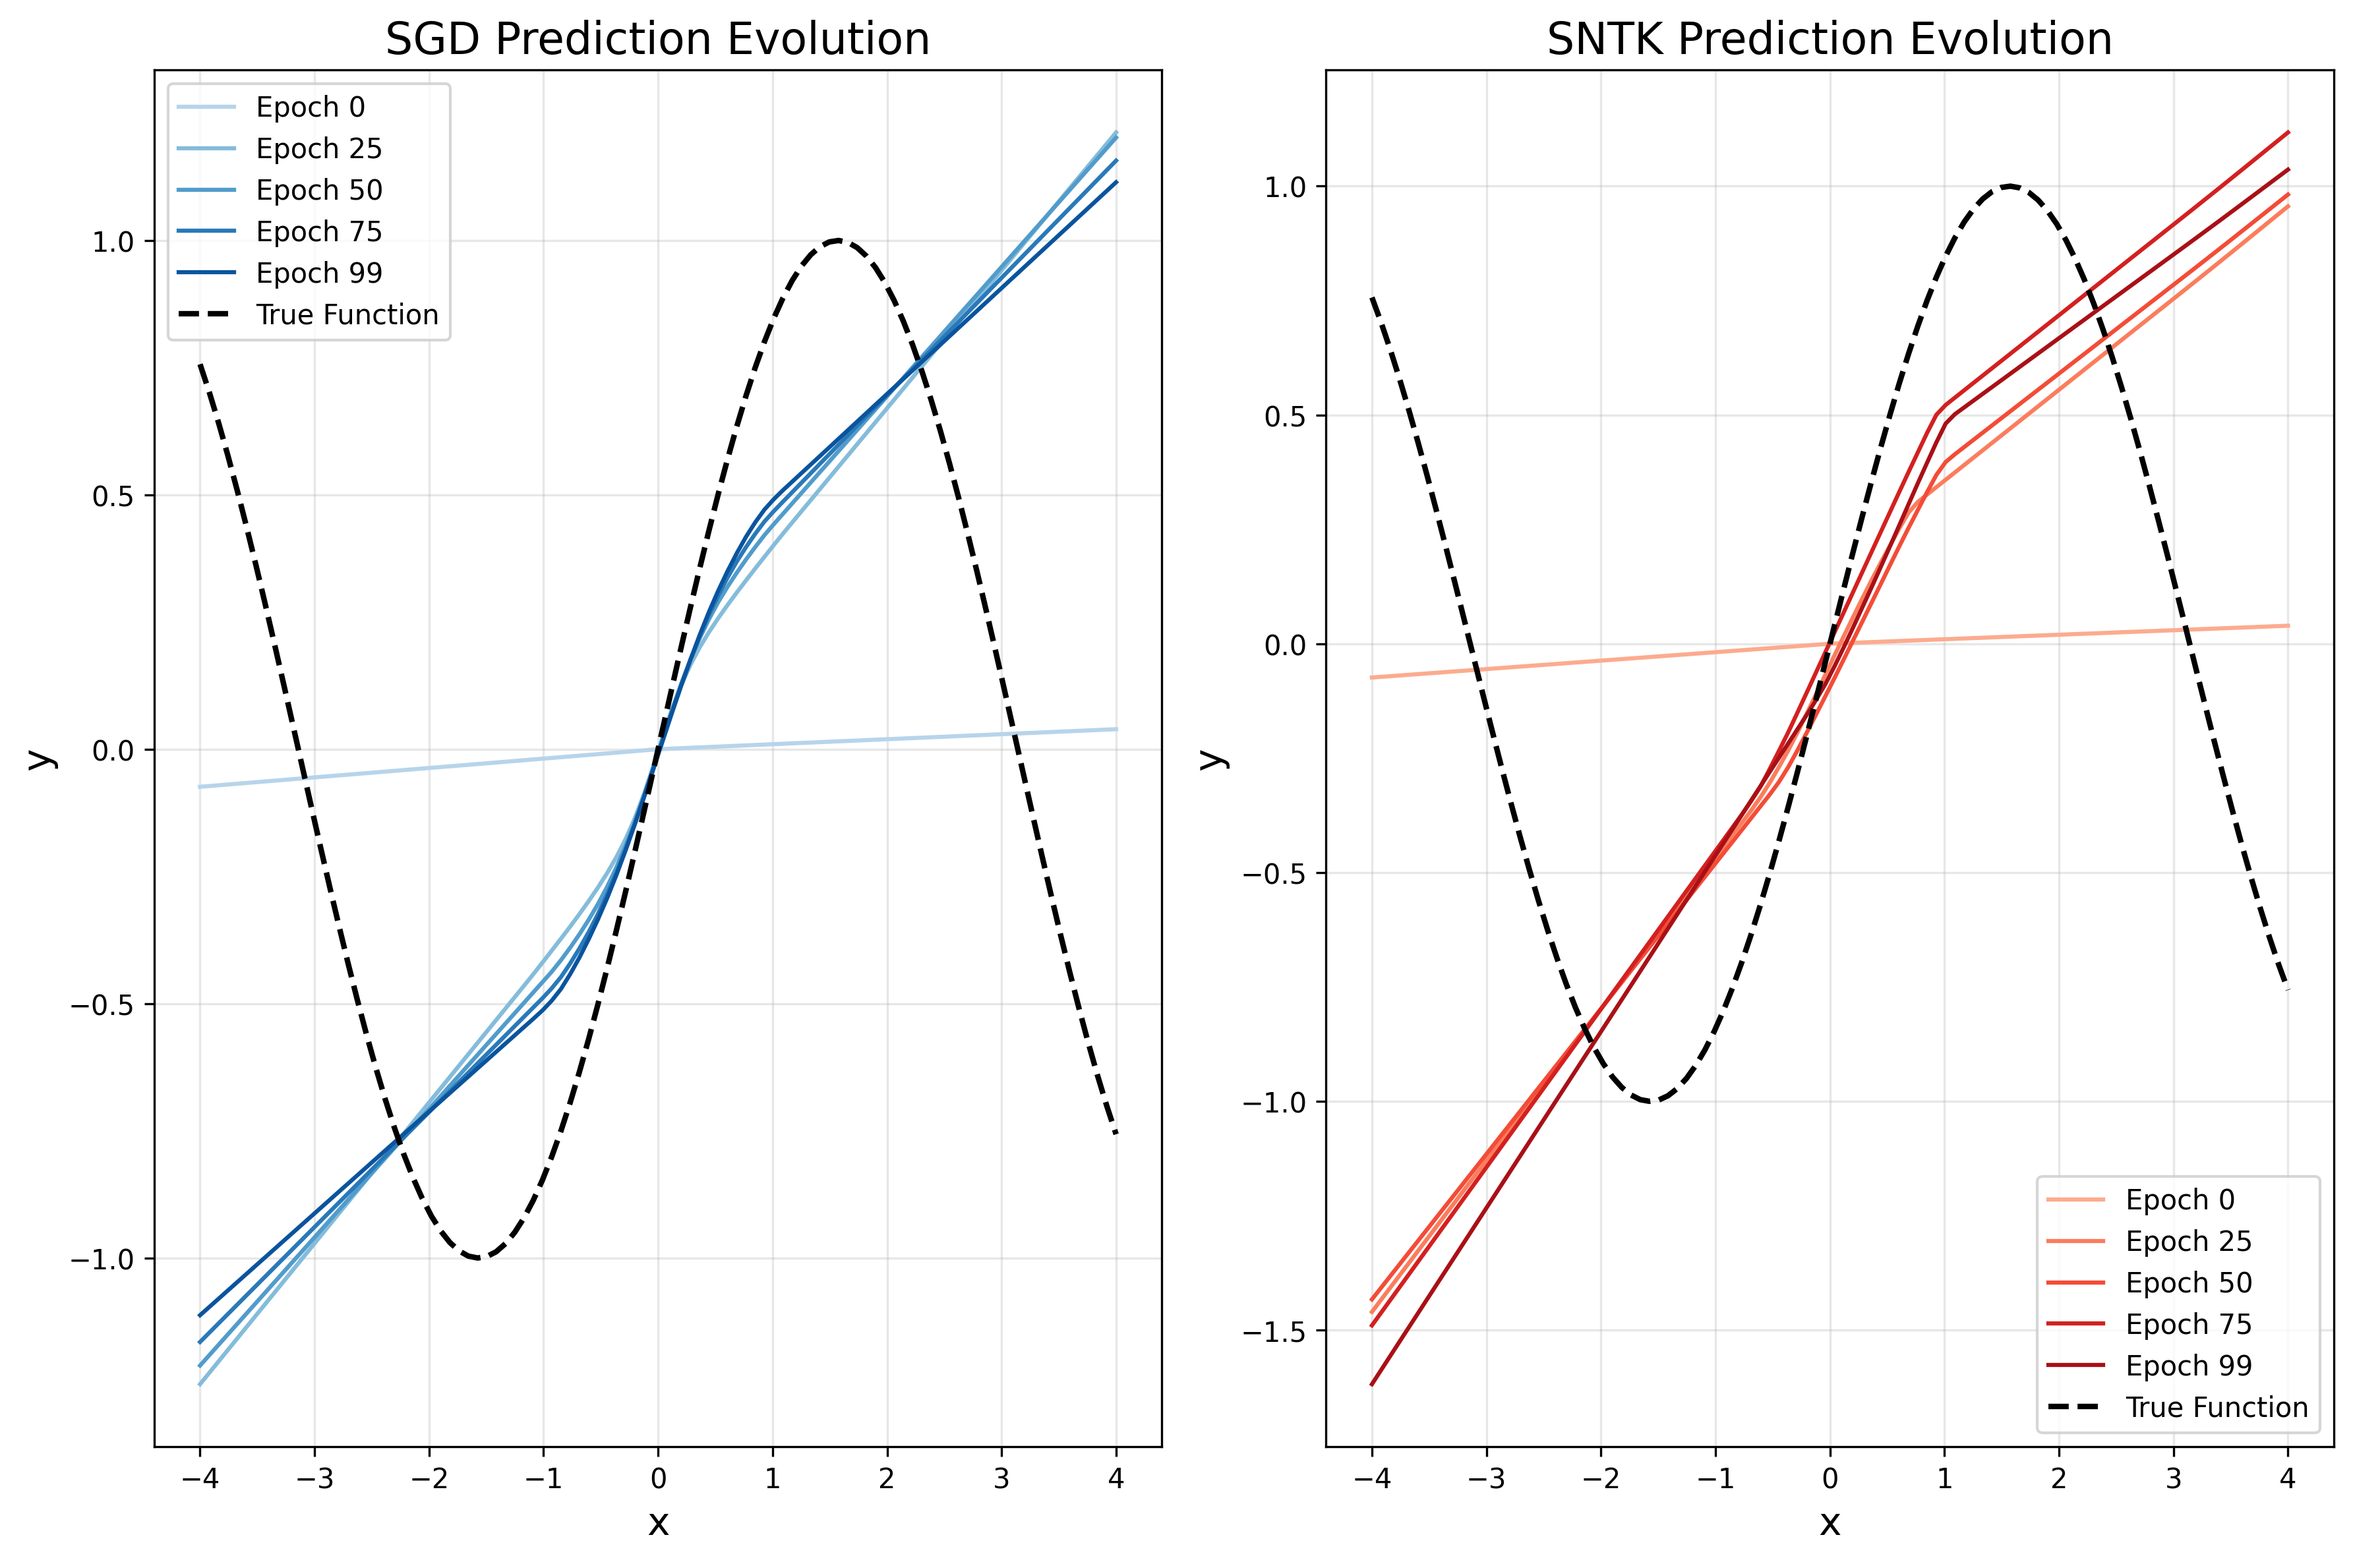
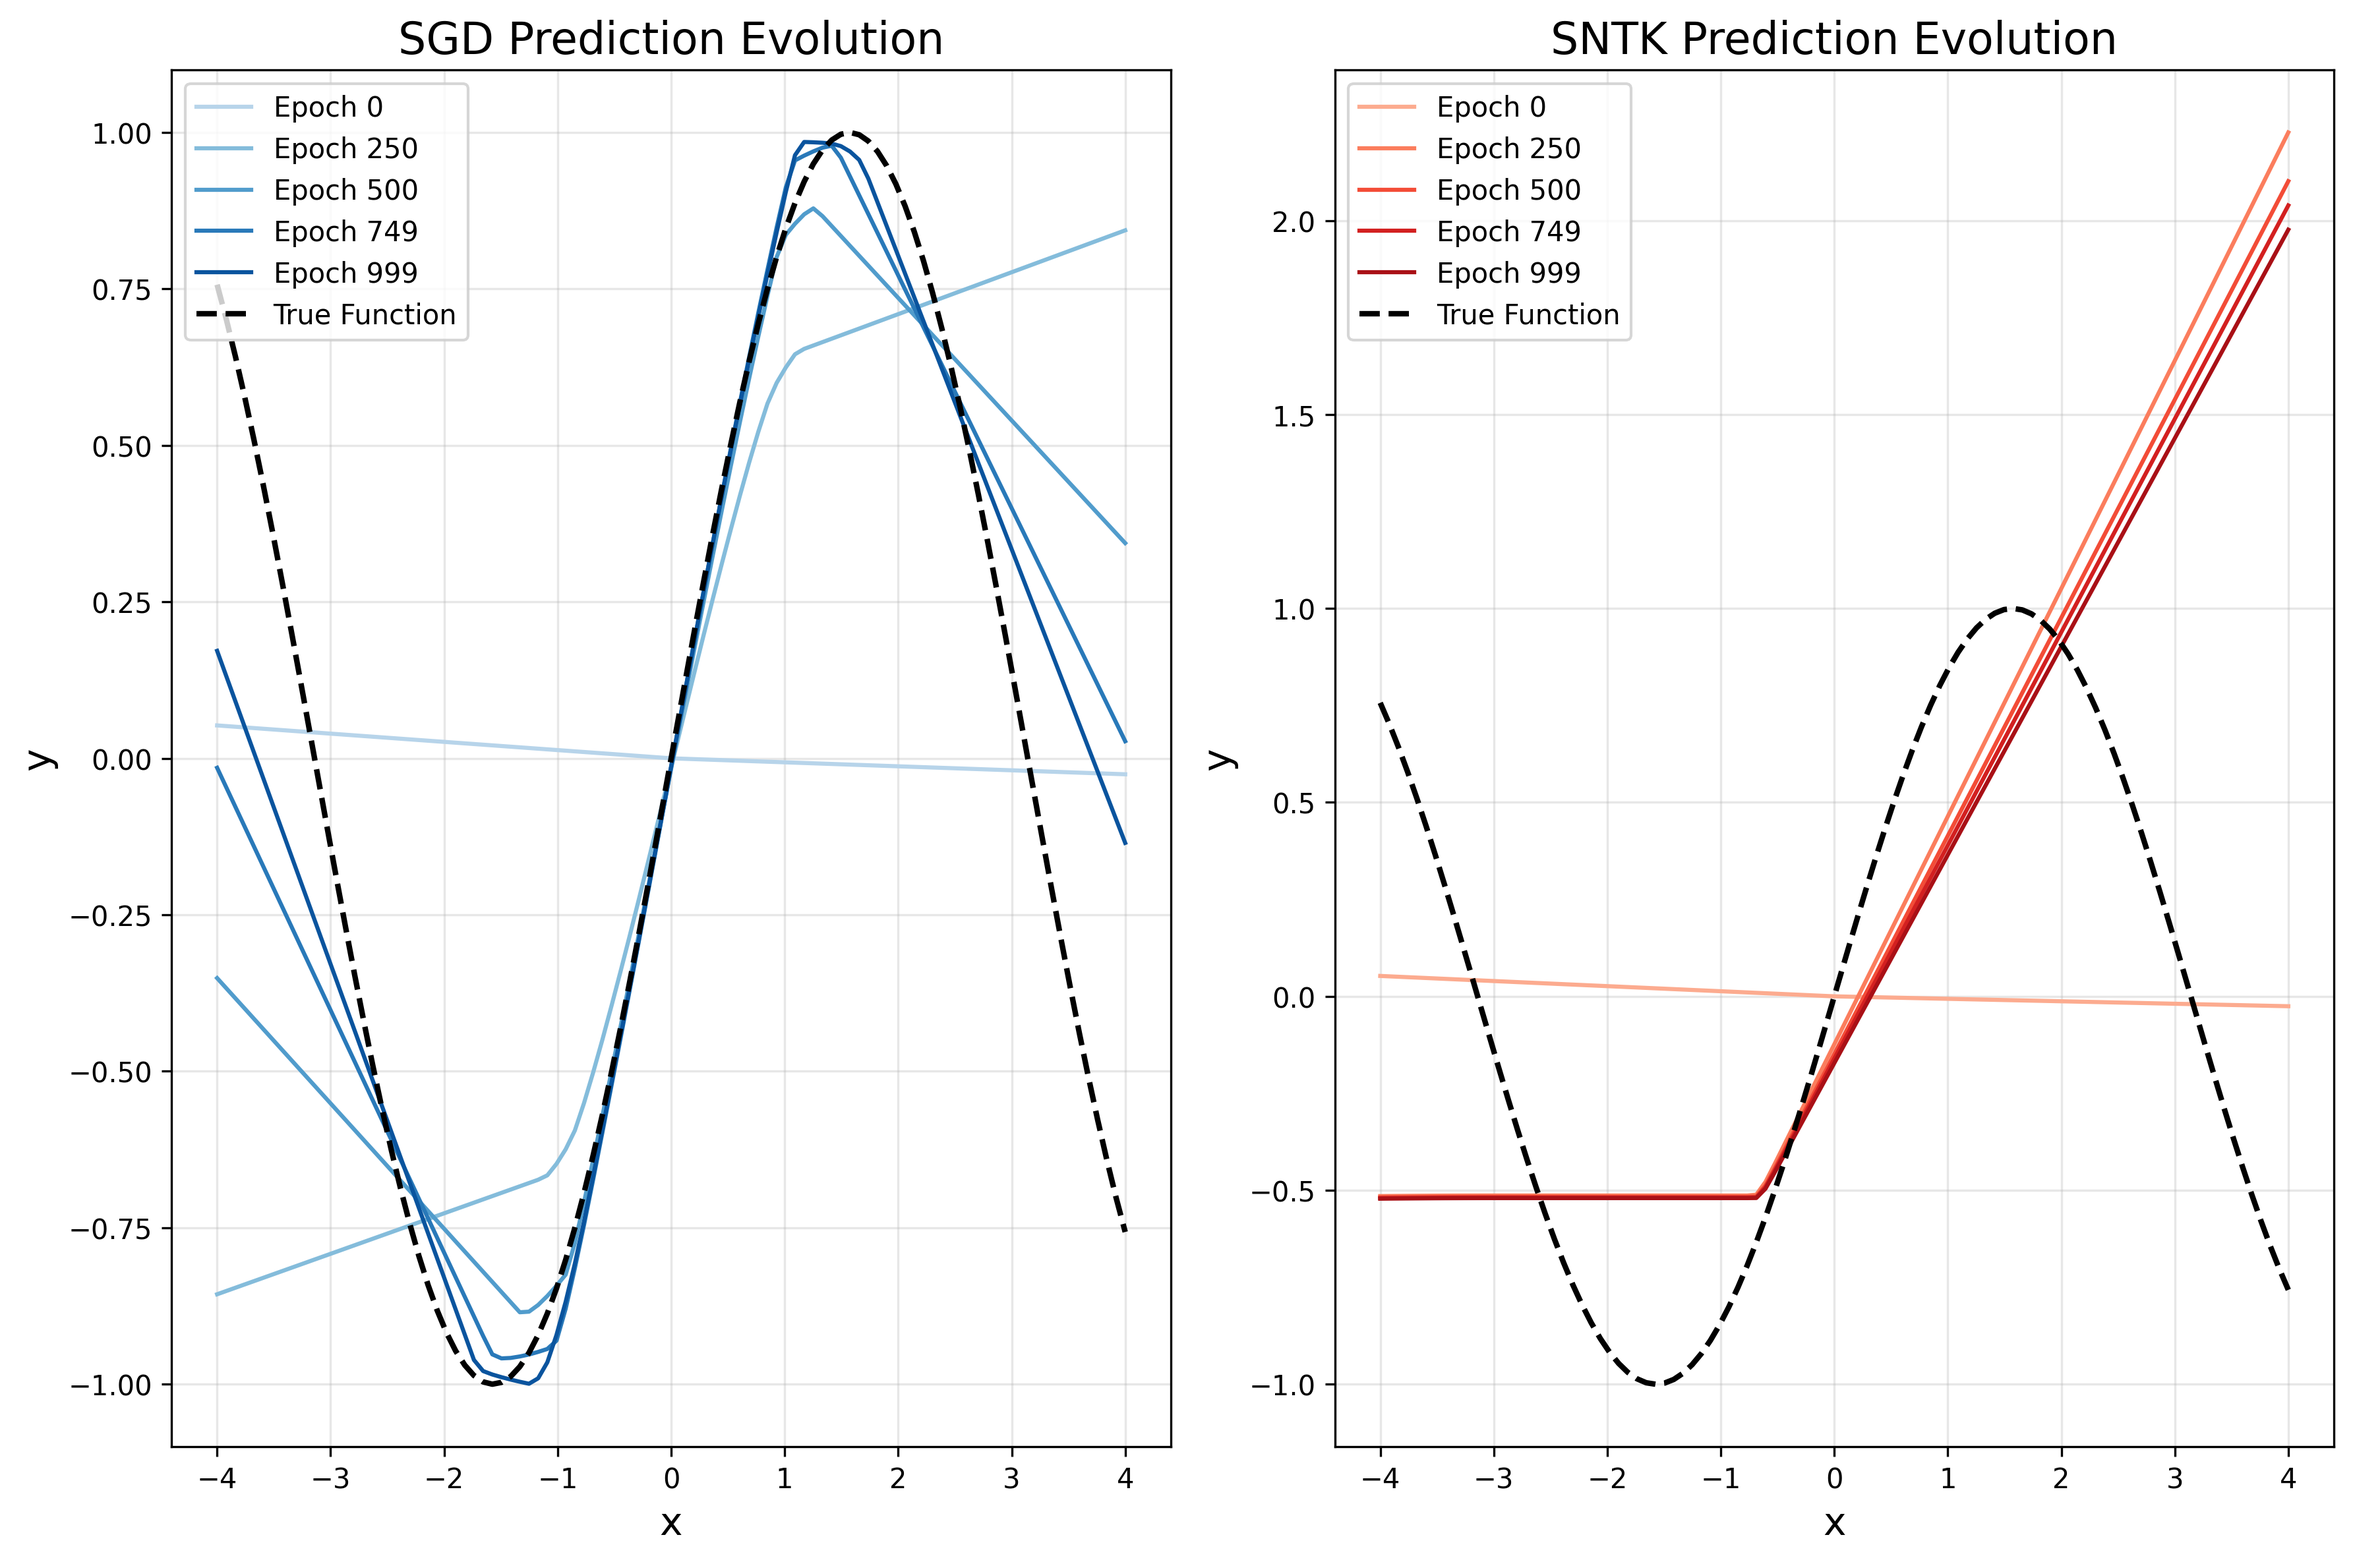
new runs

diff --git a/experiments.py b/experiments.py
@@ -25,12 +25,8 @@ def run_width_experiment(widths):
 
         # HYPER PARAMETERS
         batch_size = 5
-        lr = 0.01
-        if width > 512:
-            lr = 0.01 * (512/width)**0.5  # Less aggressive scaling for wider networks
-        else:
-            lr = 0.01 * (128/width)**0.25
-        
+        lr = 0.001 * (128/width)**0.5
+
         # Initialize models with identical weights
         model_gd = SimpleNN(width=width)
         model_ntk = SimpleNN(width=width)
@@ -54,7 +50,7 @@ def run_width_experiment(widths):
         
         gd_losses, gd_preds = train_with_gd(
             model_gd, X_tensor, y_tensor, X_test_tensor,
-            epochs=epochs, lr=lr
+            epochs=epochs, lr=lr        
         )
         
         ntk_losses, ntk_preds = train_with_ntk(
@@ -70,8 +66,8 @@ def run_width_experiment(widths):
         num_values = 5
         val = [int(round(i * (epochs-1) / (num_values-1))) for i in range(num_values)]
         # Plot individual width results
-        plot_loss_comparison(sgd_losses, sntk_losses, name=f"{width}-5bt")
-        plot_evolution(X_test, y_test_true, sgd_preds, sntk_preds, val, name=f"{width}-5bt")
+        plot_loss_comparison(sgd_losses, sntk_losses, name=f"{width}")
+        plot_evolution(X_test, y_test_true, sgd_preds, sntk_preds, val, name=f"{width}")
         plot_four_method_comparison(
             X, y, X_test, y_test_true,
             gd_losses, ntk_losses, sgd_losses, sntk_losses,

diff --git a/visualization.py b/visualization.py
@@ -9,6 +9,7 @@ def plot_loss_comparison(sgd_losses, sntk_losses, name):
     plt.plot(sntk_losses, color='red', label='SNTK Loss')
     plt.xlabel('Epoch', fontsize=14)
     plt.ylabel('Loss', fontsize=14)
+    plt.yscale('log')
     plt.title('Loss Comparison: SGD vs SNTK', fontsize=16)
     plt.legend(fontsize=12)
     plt.grid(True, alpha=0.3)
@@ -138,7 +139,7 @@ def plot_four_method_comparison(X, y, X_test, y_test_true,
     plt.suptitle(f'Comparison of Training Methods (Width = {width})', fontsize=16)
     plt.tight_layout()
     plt.subplots_adjust(top=0.93)
-    plt.savefig(f'img/four_method_comparison-{width}-5bt.png', dpi=300, bbox_inches='tight')
+    plt.savefig(f'img/four_method_comparison-{width}.png', dpi=300, bbox_inches='tight')
     plt.close()
     
     # Focused view: only final predictions
@@ -177,5 +178,5 @@ def plot_four_method_comparison(X, y, X_test, y_test_true,
     plt.legend(fontsize=12, loc='upper left')
     plt.grid(True, alpha=0.3)
     plt.tight_layout()
-    plt.savefig(f'img/four_method_predictions-{width}-5bt.png', dpi=300, bbox_inches='tight')
+    plt.savefig(f'img/four_method_predictions-{width}.png', dpi=300, bbox_inches='tight')
     plt.close()

diff --git a/models.py b/models.py
@@ -4,7 +4,7 @@ import numpy as np
 
 class SimpleNN(nn.Module):
     """Simple neural network model with one hidden layer"""
-    def __init__(self, width=128):
+    def __init__(self, width=128, alpha=1.0):
         super(SimpleNN, self).__init__()
         self.width = width
         self.fc1 = nn.Linear(1, width)
@@ -15,7 +15,11 @@ class SimpleNN(nn.Module):
         nn.init.normal_(self.fc2.weight, std=1.0/np.sqrt(width))
         nn.init.zeros_(self.fc1.bias)
         nn.init.zeros_(self.fc2.bias)
-    
+
+        # Scale output layer more aggressively
+        with torch.no_grad():
+            self.fc2.weight *= 1.0/alpha
+        
     def forward(self, x):
         x = torch.relu(self.fc1(x))
         x = self.fc2(x)

diff --git a/training.py b/training.py
@@ -3,7 +3,7 @@ import torch.nn as nn
 from tqdm import tqdm
 from kernels import compute_ntk, compute_sntk
 
-def train_with_sgd(model, X_tensor, y_tensor, X_test_tensor, initial_epochs=100, batch_size=10, lr=0.01, patience=5, min_delta=1e-5, max_epochs=1000):
+def train_with_sgd(model, X_tensor, y_tensor, X_test_tensor, initial_epochs=100, batch_size=10, lr=0.01, patience=5, min_delta=1e-5, max_epochs=2000):
     """Train model using SGD with incremental epochs until convergence"""
     optimizer = torch.optim.SGD(model.parameters(), lr=lr)
     loss_fn = nn.MSELoss()

diff --git a/main.py b/main.py
@@ -9,5 +9,5 @@ np.random.seed(42)
 if __name__ == "__main__":
     # Run experiment with different network widths
     # widths = [1536, 2048, 3072, 4096, 6144]
-    widths = [2048]
+    widths = [13824]
     results = run_width_experiment(widths)
